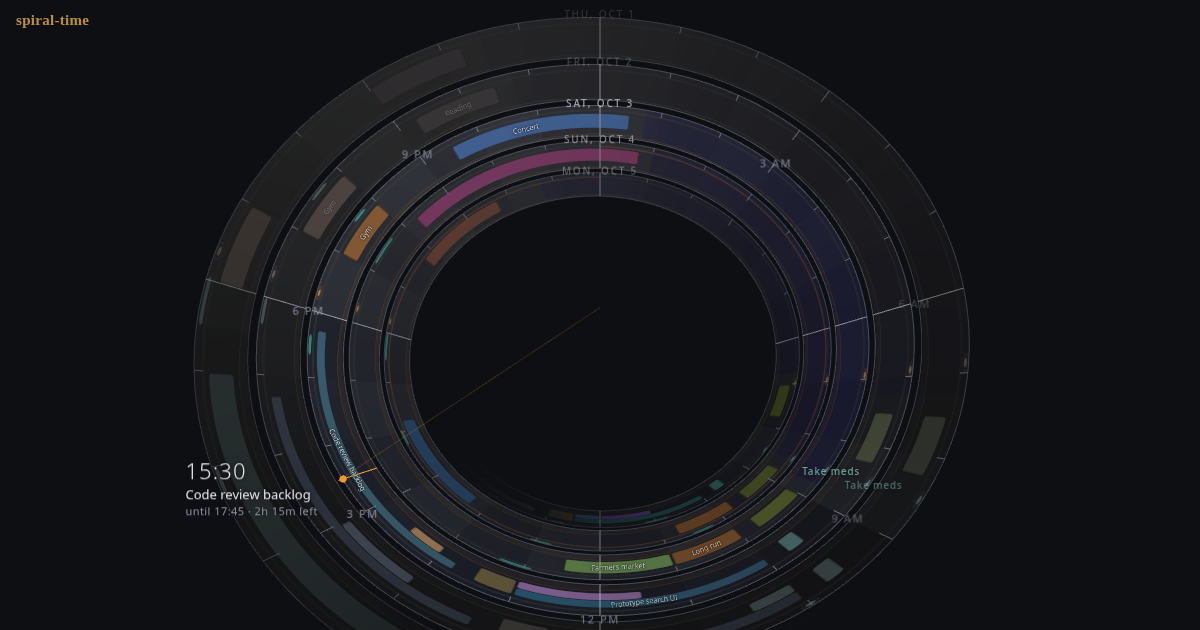
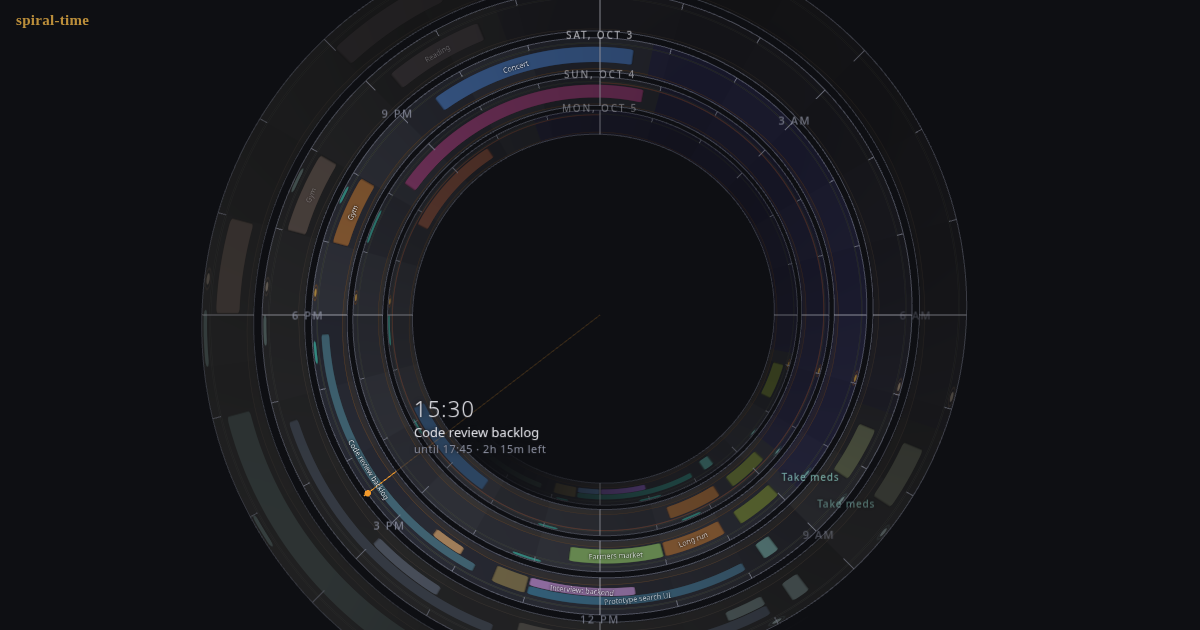
Open the spiral top-down; re-render og.png to match

diff --git a/index.html b/index.html
@@ -106,7 +106,7 @@ const P = {
   coilPitch:   0.8,    // coil view: how far each day's loop advances, in loop diameters
   daysPast:    2,
   daysFuture:  3,
-  tilt:        30,     // camera tilt in degrees, 0 = straight down (the 2D view); set below per view
+  tilt:        0,      // camera tilt in degrees, 0 = straight down (the 2D view); set below per view
   spin:        0,
   zoom:        1,
   followTime:  true,   // keep the "now" marker fixed on screen as time passes
@@ -136,7 +136,7 @@ const nowDay = () => P.nowHour / 24;
 // real time in hours since the load day's midnight, so it keeps counting past midnight
 const liveHour = () => (Date.now() - new Date(now.getFullYear(), now.getMonth(), now.getDate())) / 3.6e6;
 const easeInOut = k => k < 0.5 ? 2 * k * k : 1 - Math.pow(-2 * k + 2, 2) / 2;
-if (P.view === 'coil') { P.tilt = 80; P.spin = -128.5; } else if (P.view !== 'spiral') P.tilt = 0;
+if (P.view === 'coil') { P.tilt = 80; P.spin = -128.5; }
 
 // ---------------------------------------------------------------- spiral geometry
 // Cone frame. The spiral lives on the surface of a cone whose generatrix through
@@ -205,7 +205,7 @@ function makeLayouts() {
   const vGap = 0.5 / P.ribbonFill;          // middle of the gap outside the strip
 
   const spiral = {
-    name: 'spiral', upright: false, defaultTilt: 30, F, range: [sMin, sMax],
+    name: 'spiral', upright: false, defaultTilt: 0, F, range: [sMin, sMax],
     place(s, v, lift = 0) {
       let r, z;
       if (F.apex) {
